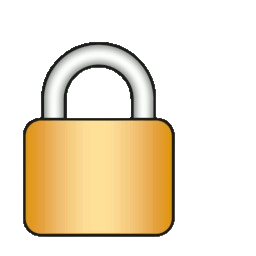
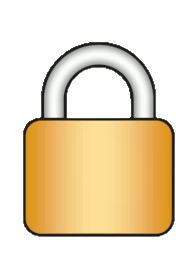
fix: 인트로 사진 너비 수정

diff --git a/src/styles/IntroPage.css b/src/styles/IntroPage.css
@@ -5,7 +5,7 @@
 
 .intro {
   position: absolute;
-  width: 374px;
+  width: 336px;
   height: 204px;
   top: 50%;
   left: 50%;
